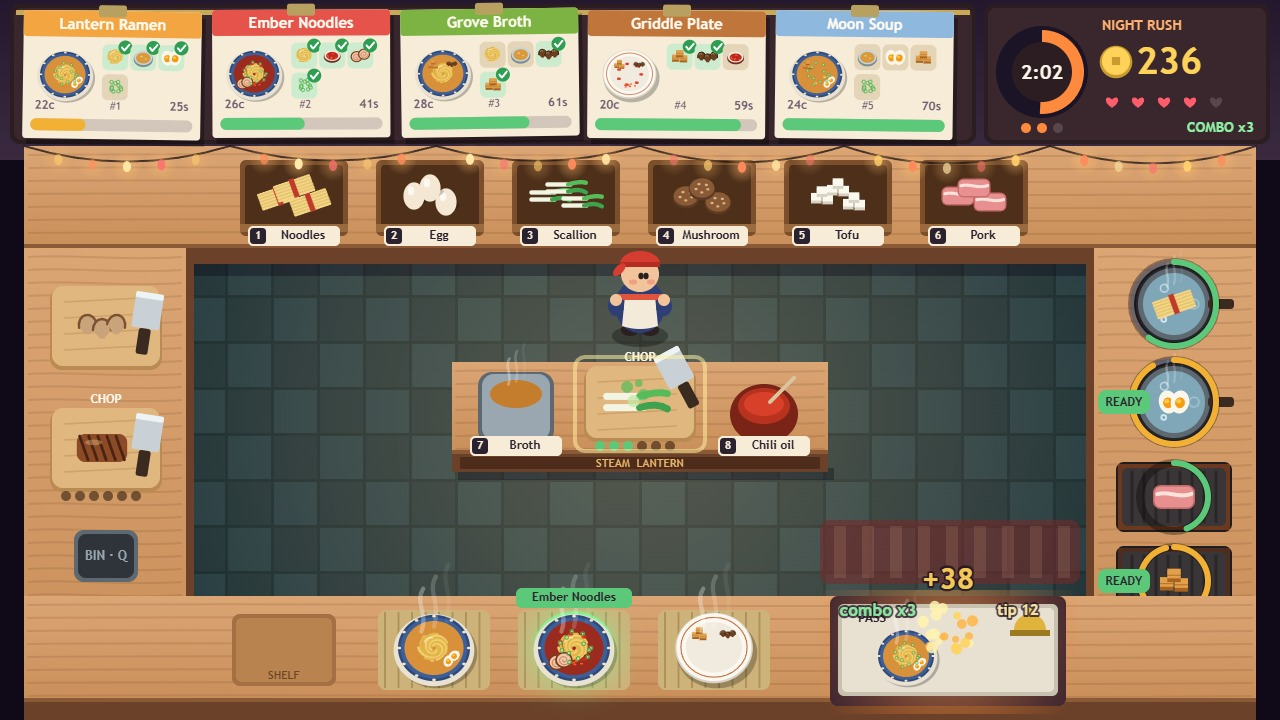
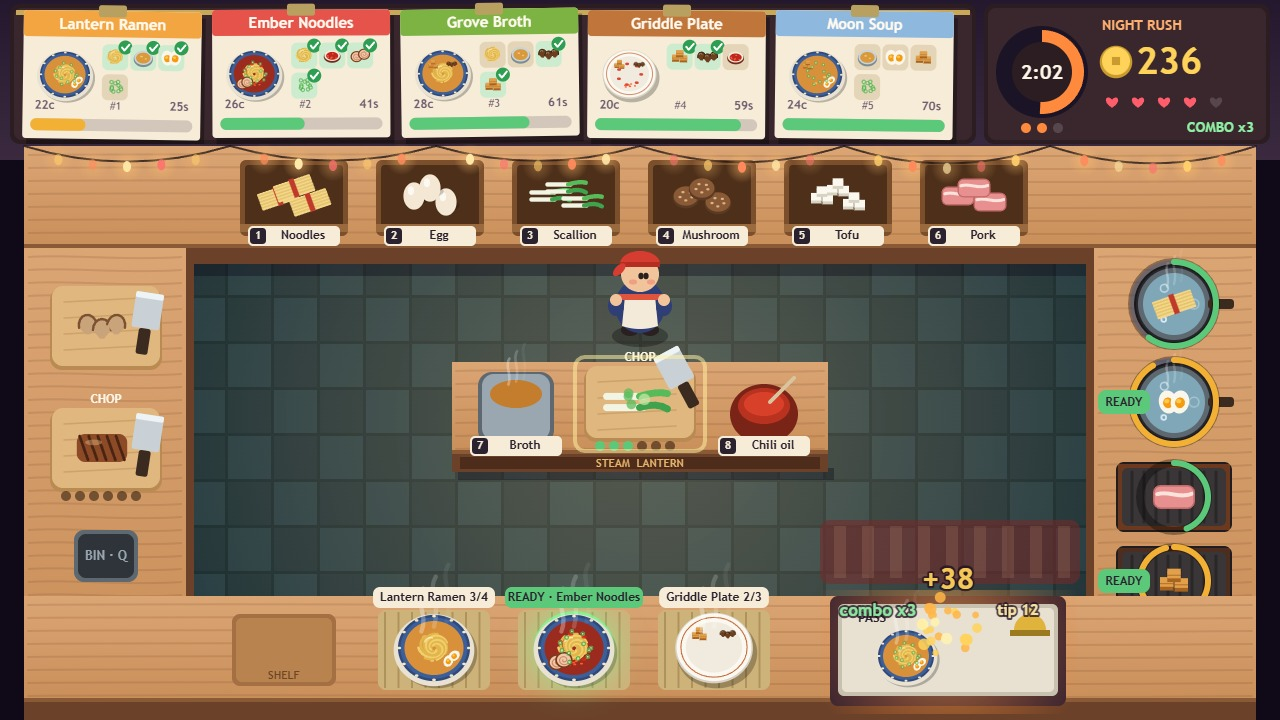
Dish progress tags, walk-route trail, audio unlock in gesture, chop-on-arrival, results hold, rail clipping

Changed region(s): [[0.2812, 0.7944, 0.625, 0.8556], [0.7188, 0.825, 0.7812, 0.9167], [0.4688, 0.5194, 0.5, 0.5806]]

diff --git a/game/src/render/kitchen-view.js b/game/src/render/kitchen-view.js
@@ -2,7 +2,7 @@
 // station on them, with what each holds and how far along it is.
 import { FLOOR, ISLAND, PALETTE, FONT, COOK } from '../config.js';
 import { cookerGauge } from '../kitchen.js';
-import { INGREDIENTS, matchRecipe, nextStep, STEP_CHOP } from '../recipes.js';
+import { fitsRecipe, INGREDIENTS, matchRecipe, nextStep, RECIPES, STEP_CHOP } from '../recipes.js';
 import { ASSEMBLY, BIN, BOARD, CRATE, GRIDDLE, PASS, POT, SHELF } from '../stations.js';
 import { drawDish, drawIngredient, drawSteam } from './food-art.js';
 
@@ -340,10 +340,33 @@ function drawAssembly(ctx, s, time, wanted) {
   const recipe = matchRecipe(s.dish);
   const glow = recipe !== null ? (wanted.has(recipe.id) ? 'rgba(120,255,150,0.75)' : 'rgba(255,220,120,0.5)') : null;
   drawDish(ctx, s.dish, s.cx, s.cy - 2, 36, { glow, steam: s.dish.length > 0 ? time + s.cx : 0 });
-  if (recipe !== null) {
-    roundRect(ctx, s.cx - 58, s.y - 16, 116, 20, 6, wanted.has(recipe.id) ? PALETTE.good : PALETTE.warn);
-    label(ctx, recipe.name, s.cx, s.y - 6, 12, PALETTE.ink);
+  const tag = dishTag(s.dish, recipe, wanted);
+  if (tag !== null) {
+    ctx.font = `bold 12px ${FONT}`;
+    const w = Math.min(138, ctx.measureText(tag.text).width + 14);
+    roundRect(ctx, s.cx - w / 2, s.y - 17, w, 21, 7, tag.fill);
+    label(ctx, tag.text, s.cx, s.y - 6, 12, tag.ink);
   }
+}
+
+/**
+ * What a mat's dish is on its way to: "Lantern Ramen 3/4" while it is being built, "READY ·
+ * Ember Noodles" once it is complete and a ticket wants it.
+ */
+function dishTag(contents, recipe, wanted) {
+  if (contents.length === 0) return null;
+  if (recipe !== null) {
+    return wanted.has(recipe.id)
+      ? { text: `READY · ${recipe.name}`, fill: PALETTE.good, ink: PALETTE.ink }
+      : { text: `${recipe.name} (no ticket)`, fill: PALETTE.warn, ink: PALETTE.ink };
+  }
+  let best = null;
+  for (const candidate of RECIPES) {
+    if (!wanted.has(candidate.id) || !fitsRecipe(contents, candidate)) continue;
+    if (best === null || candidate.items.length < best.items.length) best = candidate;
+  }
+  if (best === null) return { text: 'No match: bin it', fill: '#5a2c22', ink: '#ffd0c4' };
+  return { text: `${best.name} ${contents.length}/${best.items.length}`, fill: PALETTE.paper, ink: PALETTE.ink };
 }
 
 function drawPass(ctx, s, time, display) {

diff --git a/game/src/render/chef-view.js b/game/src/render/chef-view.js
@@ -1,6 +1,7 @@
 // The stall's cook, seen from above and a little in front: a round cook in an indigo jacket, a
 // tall red headscarf and an apron, waddling as they walk and holding what they carry up high.
 import { FONT } from '../config.js';
+import { waypoint } from '../chef.js';
 import { drawDish, drawIngredient } from './food-art.js';
 
 const TAU = Math.PI * 2;
@@ -66,6 +67,35 @@ export function drawChef(ctx, chef, time) {
     if (chef.held.dish) drawDish(ctx, chef.held.contents, 0, -92, 26, { steam: time });
     else drawIngredient(ctx, chef.held, 0, -90, 52, time);
   }
+  ctx.restore();
+}
+
+/** The route of a click-walk: footstep dots from the chef, round the island, to the station. */
+export function drawRoute(ctx, chef, stations, time) {
+  if (chef.target === null) return;
+  const s = stations.find((station) => station.id === chef.target);
+  const points = [{ x: chef.x, y: chef.y }];
+  for (let i = 0; i < 3; i += 1) {
+    const from = points[points.length - 1];
+    const next = waypoint(from.x, from.y, s.ax, s.ay);
+    points.push(next);
+    if (next.x === s.ax && next.y === s.ay) break;
+  }
+  ctx.save();
+  ctx.setLineDash([2, 14]);
+  ctx.lineDashOffset = -time * 40;
+  ctx.lineCap = 'round';
+  ctx.lineWidth = 7;
+  ctx.strokeStyle = 'rgba(255,236,170,0.55)';
+  ctx.beginPath();
+  points.forEach((pt, i) => (i === 0 ? ctx.moveTo(pt.x, pt.y) : ctx.lineTo(pt.x, pt.y)));
+  ctx.stroke();
+  ctx.setLineDash([]);
+  ctx.beginPath();
+  ctx.arc(s.ax, s.ay, 12, 0, Math.PI * 2);
+  ctx.strokeStyle = 'rgba(255,236,170,0.8)';
+  ctx.lineWidth = 3;
+  ctx.stroke();
   ctx.restore();
 }
 

diff --git a/game/src/main.js b/game/src/main.js
@@ -95,6 +95,11 @@ function runGame() {
   let warnedLastSeconds = false;
   let lastTick = 0;
   let mouseChop = null;
+  let overAt = 0;
+
+  // Browsers only let sound start inside a real key or pointer handler.
+  window.addEventListener('keydown', () => audio.unlock());
+  window.addEventListener('pointerdown', () => audio.unlock());
 
   function announce(message) {
     status.textContent = message;
@@ -116,6 +121,7 @@ function runGame() {
 
   function endShift() {
     screen = SCREEN_OVER;
+    overAt = clock;
     audio.stopMusic();
     if (world.shift.coins > best) {
       best = world.shift.coins;
@@ -134,6 +140,8 @@ function runGame() {
       mouseChop = s.id;
       return;
     }
+    // Holding the button on a far board keeps chopping once the chef gets there.
+    if (s.type === BOARD) mouseChop = s.id;
     world.walkTo(s);
   }
 
@@ -145,7 +153,9 @@ function runGame() {
         continue;
       }
       if (screen === SCREEN_TITLE || screen === SCREEN_OVER) {
-        if (press.type === KEY_CONFIRM || press.type === 'click') startShift();
+        // The results card holds a moment, so a last frantic Space doesn't skip it.
+        const settled = screen === SCREEN_TITLE || clock - overAt > 1.2;
+        if (settled && (press.type === KEY_CONFIRM || press.type === 'click')) startShift();
         continue;
       }
       if (screen === SCREEN_PAUSED) {

diff --git a/game/src/render/renderer.js b/game/src/render/renderer.js
@@ -6,7 +6,7 @@ import { stationInReach } from '../chef.js';
 import { openTickets } from '../orders.js';
 import { phaseIndex } from '../shift.js';
 import { heldTag, ticketProgress, usefulStations } from '../hints.js';
-import { drawChef, drawHeldTag } from './chef-view.js';
+import { drawChef, drawHeldTag, drawRoute } from './chef-view.js';
 import { drawFloaters, drawParticles } from './effects.js';
 import { drawBanner, drawOrderBoard, drawServicePanel } from './hud-view.js';
 import { drawBackCounters, drawFrontCounter, drawIsland, drawRoom, drawStations, drawStringLights } from './kitchen-view.js';
@@ -72,6 +72,7 @@ export function createRenderer(canvas) {
     drawRoom(ctx, time, rush);
     drawBackCounters(ctx);
     drawStations(ctx, world.stations, { ...common, sides: ['back', 'left', 'right'] });
+    drawRoute(ctx, world.chef, world.stations, time);
     // The chef passes behind the island when north of it and in front of it when south.
     const behind = world.chef.y < ISLAND.y + ISLAND.h / 2;
     if (behind) drawChef(ctx, world.chef, time);

diff --git a/game/src/kitchen.js b/game/src/kitchen.js
@@ -122,6 +122,8 @@ export function interact(world, s) {
         if (addToDish(world, held.contents, s.item, s)) s.item = null;
       } else if (held !== null && !isDish(held) && isDish(s.item)) {
         if (addToDish(world, s.item.contents, held, s)) chef.held = null;
+      } else if (held !== null) {
+        event(world, 'refuse', s, { text: 'Shelf is full' });
       }
       return;
     }
@@ -138,6 +140,8 @@ export function interact(world, s) {
         event(world, 'place', s, { dish: true });
       } else if (held === null) {
         event(world, 'refuse', s, { text: 'Bring a prepped ingredient' });
+      } else {
+        event(world, 'refuse', s, { text: 'Mat is taken' });
       }
       return;
     }

diff --git a/game/src/render/hud-view.js b/game/src/render/hud-view.js
@@ -112,10 +112,16 @@ export function drawOrderBoard(ctx, orders, time, progress) {
   ctx.fillStyle = '#c8a95a';
   ctx.fillRect(16, 10, 954, 5);
   if (orders.tickets.length === 0) text(ctx, 'Waiting for the first customers…', 492, 76, 18, 'rgba(255,240,220,0.5)', 'center', 'normal');
+  // Tickets stay on the board: one sliding in or out never spills over the service panel.
+  ctx.save();
+  ctx.beginPath();
+  ctx.rect(14, 0, 958, 144);
+  ctx.clip();
   orders.tickets.forEach((ticket, index) => {
     const slot = ticketSlot(index);
     drawTicket(ctx, ticket, slot.x, slot.y, time, progress.get(ticket.id) ?? []);
   });
+  ctx.restore();
 }
 
 function drawHeart(ctx, x, y, size, full) {

diff --git a/game/src/shots.js b/game/src/shots.js
@@ -138,8 +138,10 @@ function stageLastCall(world, fx) {
   work(world, 'crate-scallion');
   work(world, 'board-a');
   work(world, 'assembly-2');
-  world.chef.x = 820;
-  world.chef.y = 520;
+  // Running the feast from the island round to the pass (the route shows as a dotted trail).
+  world.chef.x = 760;
+  world.chef.y = 312;
+  world.chef.target = 'pass';
   world.chef.moving = true;
   world.chef.walk = 1.2;
   world.chef.facing = 1;
